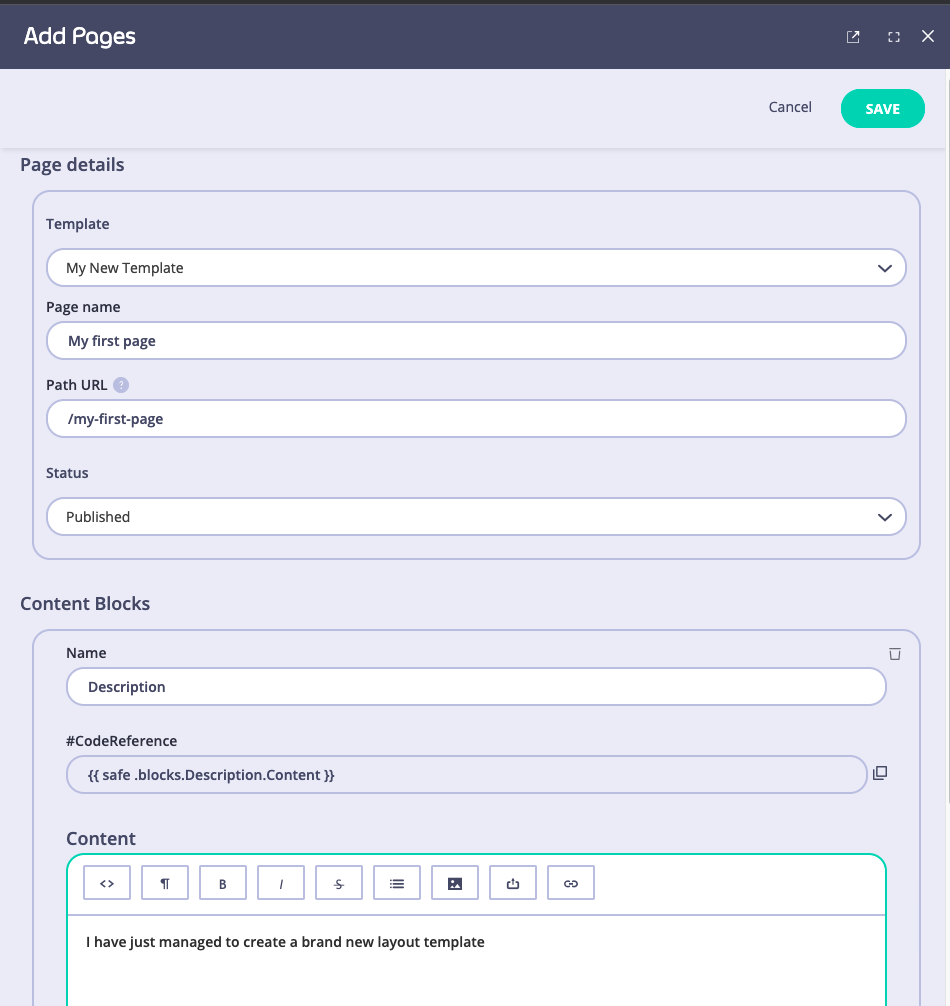
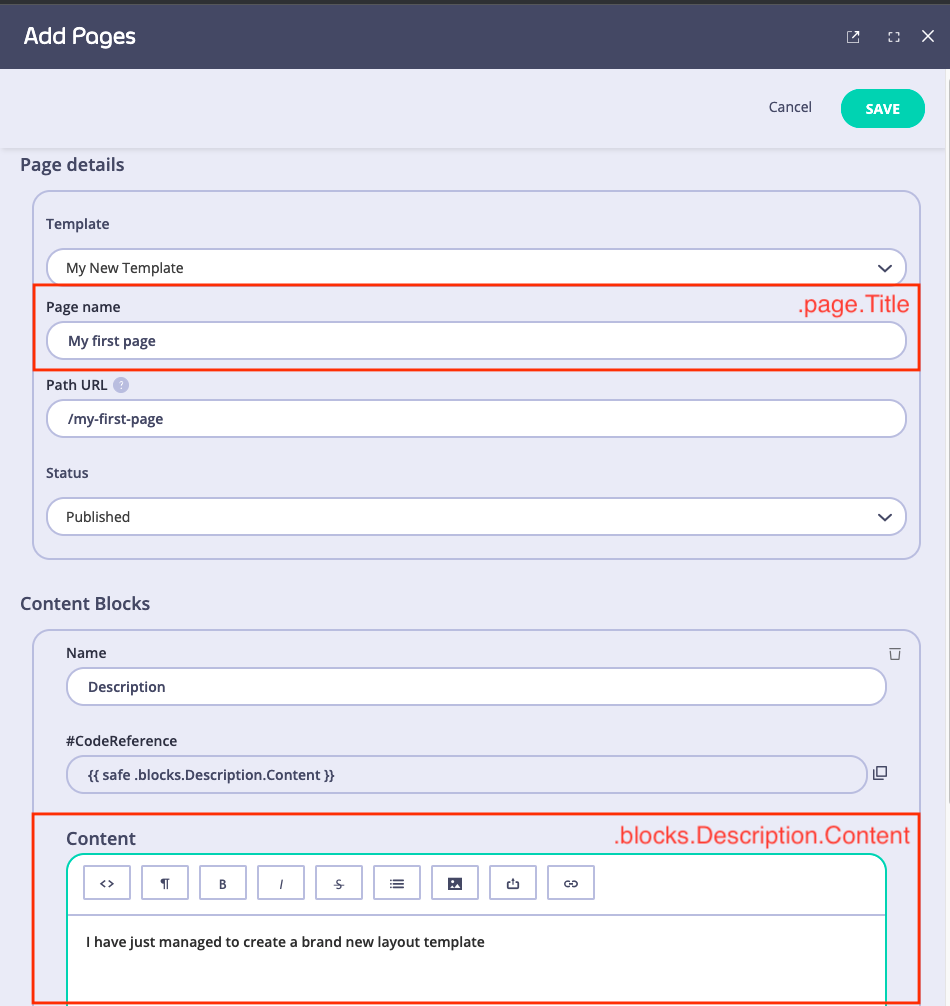
[TT-5748] Add portal installation docs. (#1943)
* [TT-5748] Add portal installation docs.

* [TT-5748] Fix the Vale error for the installation docs.

* [TT-5748] Fix the default logo name for the portal.

* [TT-5748] Fix JSON format for the theming page.

* [TT-5748] Fix guidance for theming using an existing and a new templates.

* [TT-5748] Reorder step of the template customization to straighten the user journey.

* [TT-5748] Correct the default logo for the portal.

Changed region(s): [[0.0305, 0.8012, 0.9768, 1.0], [0.0305, 0.2773, 0.9768, 0.3698]]

diff --git a/tyk-docs/content/tyk-stack/tyk-developer-portal/enterprise-developer-portal/install-tyk-enterprise-portal.md b/tyk-docs/content/tyk-stack/tyk-developer-portal/enterprise-developer-portal/install-tyk-enterprise-portal.md
@@ -15,3 +15,190 @@ weight: 2
 If you are interested in getting access contact us at [support@tyk.io](<mailto:support@tyk.io?subject=Tyk Enterprise Portal Beta>)
 
 {{< /note >}}
+
+## Installing Tyk Enterprise Developer Portal 
+We deliver the Tyk Enterprise Developer Portal as a Docker container. To  install Tyk Enterprise Developer Portal, you need to launch the Docker image for the portal.
+
+The following paragraphs will explain the variable used by the Docker image for the portal and also how to get the portal running.
+
+### Environment variables and .env file
+#### Environment variables reference
+The Tyk Enterprise Developer portal is configured by using the following environment variables that should be passed to the container during the start-up:
+| Variable | Meaning | Required | Example value|
+|-----------|----------|-------| ----|
+| PORTAL_HOST_PORT | The port on which the portal will run inside the container. | No. If it is not specified, the default value is 3001. | 3001 |
+|PORTAL_REFRESHINTERVAL| How the portal will synchronise API Products and plans with the Tyk Dashboard. The value is specified in minutes. | No. If it is not specified, the default value is 10. | 10 |
+| PORTAL_DATABASE_DIALECT | A database will be used to store the portal data. Available dialects are mysql, postgres, and sqlite3. | No. If it is not specified, the portal will sqlite3 inside the container, we don't recommend this configuration for production environments. | `mysql` |
+| PORTAL_DATABASE_CONNECTIONSTRING | Connection string to the selected database. | It is required if `PORTAL_DATABASE_DIALECT` is specified. | `login:password@tcp(the-database-host:3306)/portal?charset=utf8mb4&parseTime=true` |
+| PORTAL_DATABASE_ENABLELOGS | It enables logging connection to the database. We recommend disabling this in production environments. | No. If it is not specified, the default value is `false`.  | `false` |
+| PORTAL_THEMING_THEME | It defines which theme the portal should use after the start-up. You can change this later via the Themes UI. By default, the portal comes with only one theme named `default`,  therefore, PORTAL_THEMING_THEME should be equal to `default`. | No. If it is not specified, the default value is `default`.  | `default` |
+| PORTAL_LICENSEKEY | A licence key that Tyk provides. | Yes. You can't use the portal without a licence key. | XXXX |
+| ADMIN_EMAIL | The portal super admin email address for bootstrapping. | Yes. It must be specified on the first launch. | admin@tyk.io |
+| ADMIN_PASSWORD | The portal super admin password for bootstrapping | Yes. It must be specified on the first launch. | secr3t |
+| PROVIDER_NAME | You can specify connection settings to your Tyk Dashboard either via the Provider UI or using `PROVIDER_NAME` and `PROVIDER_DATA` variables. `PROVIDER_NAME` defines the name of your Tyk instance as it will appear in the UI. Later you can add more instances of the Tyk Dashboard using UI. | If it is not specified, the default value is `Tyk Dashboard (Edit Me)`. | Tyk Dashboard |
+| PROVIDER_DATA | It defines connection data for the Tyk Dashboard instance.| No. If it is not specified, the default value is `{"URL": "http://localhost:8000", "Secret": "your-dash-user-secret-here", "OrgID": "5fc07983cbfb8149a63a4ae3"}`.| `{"URL": "http://localhost:8000", "Secret": "your-dash-user-secret-here", "OrgID": "5fc07983cbfb8149a63a4ae3"}`
+
+In a production environment, on the first launch you need to specify at least the following environment variables:
+* PORTAL_LICENSEKEY;
+* PORTAL_DATABASE_DIALECT;
+* PORTAL_DATABASE_CONNECTIONSTRING;
+* ADMIN_EMAIL;
+* ADMIN_PASSWORD.
+
+#### .env file
+If you have multiple environment variables, you can substitute them by adding them to a default environment variable file named .env or providing a path to your environment variables file using the --env-file command-line option.
+The below example demonstrates the .env file:
+```.ini
+ADMIN_EMAIL=admin@tyk.io  
+ADMIN_PASSWORD=secr3t  
+PORTAL_HOST_PORT=3001  
+PORTAL_REFRESHINTERVAL=10  
+PORTAL_DATABASE_DIALECT=mysql  
+PORTAL_DATABASE_CONNECTIONSTRING=admin:secr3t@tcp(tyk-portal-mysql:3306)/portal?charset=utf8mb4&parseTime=true  
+PORTAL_DATABASE_ENABLELOGS=false  
+PORTAL_THEMING_THEME=default  
+PORTAL_THEMING_PATH=./themes  
+PORTAL_LICENSEKEY=XXX
+```
+
+
+### Launch the Tyk Enterprise Developer portal using docker
+To launch the Tyk Enterprise Developer portal, specify the environment variables described above or specify a .env file. The following example demonstrates how to launch the portal using the .env file:
+
+```.bash
+$ docker run -d \
+  -p 3001:3001 \
+  --env-file .env \
+  --name tyk-portal \
+  tykio/portal:v1.0.0 --bootstrap
+```
+
+This command will launch the portal on port 3001 and **bootstrap**  the portal. Now you can access your portal on port 3001.
+
+#### Bootstrapping
+**The portal must be bootstrapped on the first launch.** You can remove the `--bootstrap` command later if you don't want the portal to try bootstrapping. However, if `--bootstrap` is specified, the portal  will firstly check if it's already bootstrapped. If your portal is already bootstrapped, it is safe to launch the portal using `--bootstrap` command. Neither of your assets will be modified.
+
+
+### Launch the Tyk Enterprise Developer portal with MySQL
+This guide demonstrates two approaches for setting up and running the portal with MySQL database: using docker-compose and using separate Docker containers.
+To launch the portal with other databases you can use this guide as a reference.
+#### Installing Tyk Enterprise Developer Portal by using separate Docker containers
+1. Create a network to connect your containers.
+```.bash  
+$ docker network create tyk-portal
+```
+2. Create a volume for the MySQL database.
+```.bash
+$ docker volume create tyk-portal-mysql-data
+```
+3. Launch the MySQL container by using `docker run`. 
+You can refer to the [MySQL configuration guide](https://dev.mysql.com/doc/refman/5.7/en/charset-applications.html) for other configuration options.
+```.bash
+$ docker run -d \  
+--name tyk-portal-mysql \  
+--restart on-failure:5 \  
+-e MYSQL_ROOT_PASSWORD=sup3rsecr3t \  
+-e MYSQL_DATABASE=portal \  
+-e MYSQL_USER=admin \  
+-e MYSQL_PASSWORD=secr3t \  
+--mount type=volume,source=tyk-portal-mysql-data,target=/var/lib/mysql \  
+--network tyk-portal \  
+-p 3306:3306 \  
+mysql:5.7 --character-set-server=utf8mb4 --collation-server=utf8mb4_unicode_ci --sql-mode=ALLOW_INVALID_DATES  
+```
+4. Create a .env file as described above.
+5. Launch the portal by executing the following command to finish the installation.
+```.bash
+$ docker run -d \
+  -p 3001:3001 \
+  --env-file .env \
+  --network tyk-portal \
+  --name tyk-portal \
+  tykio/portal:v1.0.0 --bootstrap
+```
+6. Now you should be able to access the portal on port 3001.
+7. Execute the cleanup commands to clean up the installation:
+```.bash  
+$ docker stop tyk-portal                 # stop the portal container
+$ docker rm tyk-portal                   # remove the portal container
+$ docker stop tyk-portal-mysql           # stop the database container
+$ docker rm tyk-portal-mysql             # remove the database container
+$ docker volume rm tyk-portal-mysql-data # remove the database container volume
+```
+
+#### Installation by using separate docker-compose
+1. Create the docker-compose file:
+```.yaml
+version: '3.6'  
+services:  
+  tyk-portal:
+    depends_on:
+      - tyk-portal-mysql
+    image: tykio/portal:v1.0.0
+    command: --bootstrap
+    networks:
+      - tyk-portal
+    ports:
+      - 3001:3001
+    environment:
+      - ADMIN_EMAIL=${ADMIN_EMAIL}
+      - ADMIN_PASSWORD=${ADMIN_PASSWORD}
+      - PROVIDER_DATA=${PROVIDER_DATA}
+      - PROVIDER_NAME=${PROVIDER_NAME}
+      - PORTAL_DATABASE_DIALECT=${PORTAL_DATABASE_DIALECT}
+      - PORTAL_DATABASE_CONNECTIONSTRING=${PORTAL_DATABASE_CONNECTIONSTRING}
+      - PORTAL_THEMING_THEME=${PORTAL_THEMING_THEME}
+      - PORTAL_THEMING_PATH=${PORTAL_THEMING_PATH}
+      - PORTAL_LICENSEKEY=${PORTAL_LICENSEKEY}
+
+  tyk-portal-mysql:
+    image: mysql:5.7
+    command: --character-set-server=utf8mb4 --collation-server=utf8mb4_unicode_ci
+    volumes:
+      - tyk-portal-mysql-data:/var/lib/mysql
+    networks:
+      - tyk-portal
+    environment:
+      - MYSQL_ROOT_PASSWORD=${MYSQL_ROOT_PASSWORD}
+      - MYSQL_DATABASE=${MYSQL_DATABASE}
+      - MYSQL_USER=${MYSQL_USER} - MYSQL_PASSWORD=${MYSQL_PASSWORD}
+
+volumes:
+  tyk-portal-mysql-data:
+
+networks:  
+  tyk-portal:
+
+```
+2. Create the .env file. This time you will need to specify variables for MySQL as well. You can use the following example as a blueprint:
+```.ini
+MYSQL_ROOT_PASSWORD=sup3rsecr3t  
+MYSQL_DATABASE=portal  
+MYSQL_USER=admin  
+MYSQL_PASSWORD=secr3t0  
+ADMIN_EMAIL=admin@tyk.io  
+ADMIN_PASSWORD=secr3t  
+PORTAL_HOST_PORT=3001  
+PORTAL_REFRESHINTERVAL=10  
+PORTAL_DATABASE_DIALECT=mysql  
+PORTAL_DATABASE_CONNECTIONSTRING=admin:secr3t@tcp(tyk-portal-mysql:3306)/portal?charset=utf8mb4&parseTime=true  
+PORTAL_DATABASE_ENABLELOGS=false  
+PORTAL_THEMING_THEME=default  
+PORTAL_THEMING_PATH=./themes  
+PORTAL_LICENSEKEY=XXX  
+PROVIDER_DATA={"URL":"http://192.168.1.55:3000","Secret":"eb18a1d86ae7492f55e6190ffde6ad55","OrgID":"617006c1829b6f0001c6c039"}  
+PROVIDER_NAME=tyk@localhost
+```
+3. Launch the docker-compose file:
+```.bash
+$ docker-compose --env-file .env up -d
+```
+4. Now you should be able to access the portal on port 3001.
+5. Run the following commands to shutdown the stack:
+```.bash
+$ docker-compose down       # to just shutdown the stack
+```
+or
+```.bash
+$ docker-compose down -v    # to shutdown the stack and remove the volume
+```

diff --git a/tyk-docs/content/tyk-stack/tyk-developer-portal/enterprise-developer-portal/customise-enterprise-portal/full-customisation/create-new-page-template.md b/tyk-docs/content/tyk-stack/tyk-developer-portal/enterprise-developer-portal/customise-enterprise-portal/full-customisation/create-new-page-template.md
@@ -29,9 +29,9 @@ We suggest you read the [portal concepts]({{< ref "/content/tyk-stack/tyk-develo
 - Access to the file system
 - Access to your Tyk Self-Managed installation
 
-## Part 1 - Create a new page in the Dashboard
+## Part 1 - Create a new page in the Dashboard using an existing template
 
-Follow the example below to create a new page called “hello” using an existing template.
+Follow the example below to create a new page called “My first page” using an existing template.
 
 {{< img src="/img/dashboard/portal-management/enterprise-portal/create-new-page1.png" alt="The pages section within the Tyk Enterprise Portal app" >}}
 
@@ -39,7 +39,7 @@ Follow the example below to create a new page called “hello” using an existi
 2. Navigate to Pages from the side bar menu.
 3. Click Add and enter the following values:
 
-{{< img src="/img/dashboard/portal-management/enterprise-portal/add-page-details.png" alt="Add new page details" >}}
+{{< img src="/img/dashboard/portal-management/enterprise-portal/add-a-content-page-using-an-existing-template.png" alt="Add a new content page" >}}
 
 ## Part 2 - Create a new page template
 
@@ -62,7 +62,7 @@ A layout behaves like a component that can be reused to inject templates in orde
     <meta name="description" content="">
     <meta name="author" content="">
 
-    <title>Dev Portal</title>
+   <title>{{ if .page}} {{.page.Title}} {{else}} Developer Portal {{end}}</title>
 
     <!-- Bootstrap core CSS -->
     <link href="/system/vendor/bootstrap/css/bootstrap.min.css" rel="stylesheet">
@@ -94,7 +94,7 @@ The above snippet is taking into account the default developer portal setup, dir
 
 We have also added the top and footer navigation menus for demonstration purposes, `{{ render "top_nav" . }}` and `{{ render "footer" . }}` respectively.
 
-### Create the layout file
+### Create the template file
 
 {{< note success >}}
 **Note**
@@ -107,43 +107,33 @@ Only follow this step after creating a new template file in Section 1 above, unl
 2. Create a new file (template)
 3. In this example, we will keep it simple and create a couple of HTML tags. Copy and paste the following code:
 
-```html
+```go
 <div class="container">
-	<h1></h1>
-	<p></p>
+  <h1>{{ .page.Title }}</h1>
+  <p> {{ .blocks.Description.Content }}</p>
 </div>
 ```
+In this example, we use the code references in the template:
+- Inside the template’s `<h1>` we use `{{ .page.Title }}` to display the page name.
+- Inside the template’s `<p>` we use `{{ .blocks.Description.Content }}` to display the page content.
 
 4. Name this `my_template.tmpl` and save it.
 5. You now need to reference your new layout and template. From your Manifest file (`themes.json`) add a new key to the object that will look like this:
 
 ```json
-}
+{
   "name": "My new Template",
-	"template": "my_template",
-	"layout": "my_layout"
+  "template": "my_template",
+  "layout": "my_layout"
 }
 ```
-Alternatively, you can give it your prefered name but reference the template and layout names we created earlier in the manifest file.
+Alternatively, you can give it your preferred name but reference the template and layout names we created earlier in the manifest file.
 
 6. Now restart your developer portal service and go through the tutorial on how to add a new page. The template dropdown within the add new page form should have a new entry called `My new Template`, so create a page that will look like this:
 
 {{< img src="/img/dashboard/portal-management/enterprise-portal/add-page-details.png" alt="Add new page details" >}}
 
-7. In order to render the content we have just created from the above form, we need to add the code reference in the templates.
-
-  - Inside the layout’s `<title>` and the template’s `<h1>` add `{{ .page.Title }}` and save it.
-  - Inside the template’s `<p>` add `{{.blocks.Description.Content}}` and save it.
-
-Now your  template file (`my_template.tmpl`) looks like this:
-
-```go
-<div class="container">
-	<h1>{{ .page.Title }}</h1>
-	<p> {{.blocks.Description.Content}}</p>
-</div>
-```
-Now navigate to the path we have entered on your browser (`my-domain.io/my-first-page`) and you should be able to see your new page with the content added via the UI:
+7. Now navigate to the path we have entered on your browser (`my-domain.io/my-first-page`) and you should be able to see your new page with the content added via the UI:
 
 {{< img src="/img/dashboard/portal-management/enterprise-portal/my-first-page-example.png" alt="Example new UI page" >}}
 

diff --git a/tyk-docs/content/tyk-stack/tyk-developer-portal/enterprise-developer-portal/customise-enterprise-portal/quick-customisation.md b/tyk-docs/content/tyk-stack/tyk-developer-portal/enterprise-developer-portal/customise-enterprise-portal/quick-customisation.md
@@ -31,13 +31,13 @@ In this section we will explain how to apply your branding (styling - CSS) on th
 ### Part 1 - Changing the portal logo
 
 1. Access the file directory for the Developer portal
-2. The default logo is located in `/themes/default/assets/images/` and is called `raava-logo.svg`.
+2. The default logo is located in `/themes/default/assets/images/` and is called `dev-portal-logo.svg`.
 3. Replace the default image with your own, keeping the same file name and in `.svg` format, ensuring that `xmlns="http://www.w3.org/2000/svg"` is included within your `<svg>` tag.
 
 {{< note success >}}
 **Note**
 
- If you want to use different naming, path reference or extension, the code is `<img src="/assets/images/raava-logo.svg">` and is found on line 6 from the `/themes/default/partials/footer.tmpl` template.
+ If you want to use different naming, path reference or extension, the code is `<img src="/assets/images/dev-portal-logo.svg">` and is found on line 6 from the `/themes/default/partials/footer.tmpl` template.
 {{< /note >}}
 
 ### Part 2 - Changing brand colours

diff --git a/tyk-docs/content/tyk-stack/tyk-developer-portal/enterprise-developer-portal/customise-enterprise-portal/full-customisation/file-structure-concepts.md b/tyk-docs/content/tyk-stack/tyk-developer-portal/enterprise-developer-portal/customise-enterprise-portal/full-customisation/file-structure-concepts.md
@@ -25,7 +25,7 @@ The following page explains how they are structured and their main concepts. We 
 
 ## Theming
 
-Generally speaking, a theme defines an application styling, templates, and scripts.
+Generally speaking, a theme defines an application styling, [templates (pre-designed page layouts)](/docs/tyk-stack/tyk-developer-portal/enterprise-developer-portal/customise-enterprise-portal/full-customisation/file-structure-concepts/#go-templates), and scripts.
 In the Tyk Developer Portal, a “themes” folder is located in the root of the application and is the directory where each theme folder must be added. If you navigate to `path /themes/`, you’ll see our default theme which has the following structure:
 
 {{< img src="/img/dashboard/portal-management/enterprise-portal/theme-file-structure.png" alt="Default Tyk Enterprise Portal theme structure" >}}
